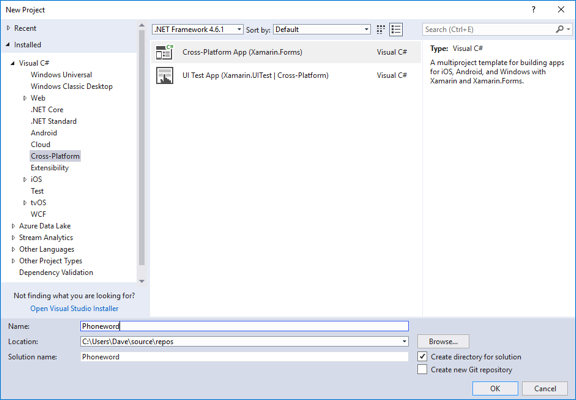
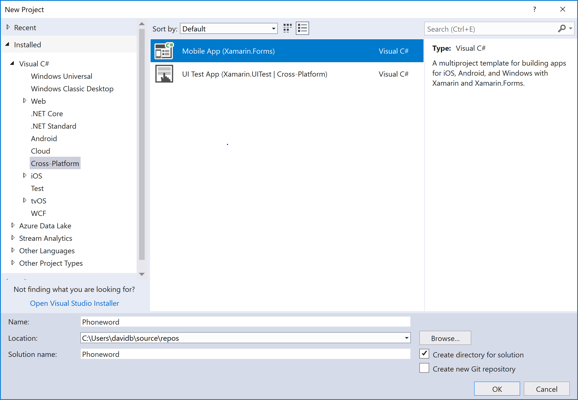
Replaced VS new project dialog screenshot with latest version. (#132)

diff --git a/docs/xamarin-forms/get-started/hello-xamarin-forms/quickstart.md b/docs/xamarin-forms/get-started/hello-xamarin-forms/quickstart.md
@@ -27,7 +27,7 @@ Create the Phoneword application as follows:
 
     ![](quickstart-images/vs/new-solution.png "New Project")
 
-3. In the **New Project** dialog, click **Cross-Platform**, select the **Cross Platform App (Xamarin.Forms)** template, set the Name and Solution name to `Phoneword`, choose a suitable location for the project and click the **OK** button:
+3. In the **New Project** dialog, click **Cross-Platform**, select the **Mobile App (Xamarin.Forms)** template, set the Name and Solution name to `Phoneword`, choose a suitable location for the project and click the **OK** button:
 
     ![](quickstart-images/vs/new-project.png "Cross-Platform Project Templates")
 
